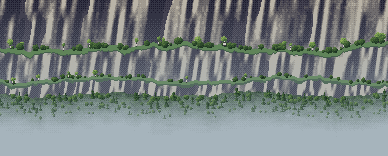
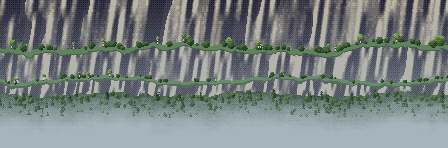
Åsen nedst: lia som fast lag, og dalen som stig fram som variant
Lia under stupet er no eit fast lag med pikselkunst (faktor 1) som heng
fast i terrenget i staden for å gli mot kartet. Lag kan ha ein variant;
varianten «dal» har ei kortare li og dalbotnen med Hovdebygda, som stig
fram nedanfrå raskare enn kartet når kameraet glir ned ved stupet.
Standard er «fast». skjerm.html har variant=dal.

diff --git a/js/rpg/data.js b/js/rpg/data.js
@@ -360,7 +360,7 @@ window.RPGData = (function () {
       // Kartet er smalare enn skjermen og står midt på (ox = 2), derfor ved: [-2, 1].
       luftfarge: "#a6b4bc",
       parallakse: [
-        { bilete: "li", faktor: 0.5, ved: [-2, 1], x: -20, y: 128 },
+        { bilete: "li", faktor: 1, ved: [-2, 1], x: -20, y: 128 },
       ],
       rader: [
         "################",
@@ -389,7 +389,7 @@ window.RPGData = (function () {
          utmarka og setra til venstre, og nærast trekronene i lia under kanten, som glir fort og
          søkk bak kanten. Kameraet kan sjå seks rader over kartet (kameraOpp). Nedst: når Ivar går mot
          stupet, glir kameraet 3 rader ned (kameraNed), så han står øvst på skjermen og lia som
-         stuper ned med berghyller, kratt og skog, og dalen langt nede i dis, syner under (li).
+         stuper ned med berghyller, kratt og skog syner under, som eit fast lag (li, faktor 1).
          ved er øvre venstre flis til kameraet når laget står på x, y. */
       luftfarge: "#a6b4bc",
       parallakse: [
@@ -397,8 +397,13 @@ window.RPGData = (function () {
         { bilete: "fjell", faktor: 0.1, ved: [0, -6], x: 0, y: 6, opp: true },
         { bilete: "dal-nord", faktor: 0.3, ved: [0, -6], x: 0, y: 36, opp: true },
         { bilete: "naer", faktor: 0.6, ved: [0, -6], x: 0, y: 66, opp: true },
-        { bilete: "li", faktor: 0.5, ved: [0, 12], x: 0, y: 48 },
+        // Nedst under stupet, variant «fast» (standard): lia som eit fast lag som følgjer kartet.
+        // Variant «dal»: lia sluttar i ei tregrense, og dalen stig fram nedanfrå (raskare enn kartet).
+        { bilete: "dal-under", faktor: [1, 1.8], ved: [0, 10.5], x: 0, y: 150, variant: "dal" },
+        { bilete: "li", faktor: 1, ved: [0, 12], x: 0, y: 48, variant: "fast" },
+        { bilete: "li-kort", faktor: 1, ved: [0, 12], x: 0, y: 48, variant: "dal" },
       ],
+      variant: "fast",                                                 // utsikta nedst: «fast» eller «dal» (sjå parallakse)
       kameraOpp: { fra: 12, til: 0, rader: 6 },                        // øvst ser kameraet opptil seks rader over kanten
       kameraNed: { fra: 11, til: 13, rader: 3 },                       // ved stupet glir kameraet ned, så Ivar står øvst
       // Forgrunnen: bjørkegreiner i øvre hjørne ved skogen, høgt gras i nedre hjørne ved stupet.

diff --git a/tools/sjekk-spel.js b/tools/sjekk-spel.js
@@ -117,9 +117,11 @@ for (const [id, k] of Object.entries(D.KART)) if (k.stemning && !(D.STEMNINGAR |
       const stad = `${id} ${namn}[${i}]`, f = stiP.join(__dirname, "..", "bilete", "spel", "parallakse", l.bilete + ".png");
       if (!fsP.existsSync(f)) { feil.push(`${stad}: bilete/spel/parallakse/${l.bilete}.png finst ikkje (køyr tools/pikselkunst/utsikt.py)`); return; }
       const fk = Array.isArray(l.faktor) ? l.faktor : [l.faktor, l.faktor];
-      if (!fk.every(v => typeof v === "number" && (namn === "parallakse" ? v >= 0 && v < 1 : v > 1))) feil.push(`${stad}: faktor ${l.faktor} (bak kartet 0 til 1, i forgrunnen over 1)`);
+      if (!fk.every(v => typeof v === "number" && (namn === "parallakse" ? v >= 0 && v <= 2 : v > 1))) feil.push(`${stad}: faktor ${l.faktor} (bak kartet 0 til 2, 1 er fast, i forgrunnen over 1)`);
+      if (l.variant && !(liste || []).some(m => m !== l && m.variant === (k.variant || "fast")) && l.variant !== (k.variant || "fast")) feil.push(`${stad}: varianten ${l.variant}, men kartet har ingen lag i varianten ${k.variant || "fast"}`);
       if (!Number.isFinite(l.x) || !Number.isFinite(l.y) || (l.ved && !(Array.isArray(l.ved) && l.ved.length === 2))) feil.push(`${stad}: treng x, y og ved: [kx, ky]`);
-      if (namn !== "parallakse" || l.opp || (liste.findIndex(m => !m.opp) !== i)) return;   // det bakaste laget under kartet
+      const iBruk = m => !m.opp && (!m.variant || m.variant === (k.variant || "fast"));   // laga under kartet i varianten kartet brukar
+      if (namn !== "parallakse" || !iBruk(l) || liste.findIndex(iBruk) !== i) return;   // det bakaste laget under kartet
       // Det bakaste laget: dekkjer det skjermen frå toppen av stupet og ned, der lufta kan syne?
       const { w: bw, h: bh } = pngStorleik(f), ved = l.ved || [0, 0];
       let luftRad = R.findIndex((r, y) => y > 0 && r.includes("-") && [...r].some((ch, x) => ch === "-" && "M-".includes(c(x, y - 1)) && !R.slice(0, y).every(rr => rr[x] === "-")));   // lufta nedst, ikkje den øvst

diff --git a/js/rpg/motor.js b/js/rpg/motor.js
@@ -677,6 +677,8 @@ window.Motor = (function () {
      skjermen (i pikslar) når kameraet står med øvre venstre flis på ved. faktor er eit tal eller
      [fx, fy]. Kameraet står på heile pikslar, og laget blir runda til heile pikslar for seg:
      posisjonen er ein monoton funksjon av kameraet, så ingenting ristar fram og attende.
+     Eit lag med faktor 1 står fast i terrenget (lia under stupet på Åsen). Eit lag med variant: "namn"
+     blir berre teikna når kartet har variant: "namn" (standard «fast»), så ein kan prøve ulike utsikter.
      Bakgrunnen syner gjennom luftfliser («-»: ikkje gangbare, ingen bakke) og der stupet («M»)
      løyser seg opp i dis nedst. luftfarge fyller skjermen under laga. */
   const LUFT = "-";
@@ -687,6 +689,7 @@ window.Motor = (function () {
   }
   function teiknLag(lag, camX, camY, forgrunn) {
     for (const l of lag || []) {
+      if (l.variant && l.variant !== (kart.def.variant || "fast")) continue;   // berre laga i varianten kartet har valt
       const img = parallaksebilete(l.bilete);
       if (!Pikslar.klar(img)) continue;
       const [x, y] = lagPos(l, camX, camY);

diff --git a/tools/pikselkunst/skjerm.html b/tools/pikselkunst/skjerm.html
@@ -33,6 +33,8 @@ f.onload = async () => {
   // flagg=skiftebrev,stabburnokkel set flagg før kartet blir lasta (til dømes skrinet etter far i stova).
   for (const fl of (q.get("flagg") || "").split(",").filter(Boolean)) w.RPGTest.st().flagg[fl] = true;
   // stemning=ingen (eller eit anna namn) byter lyset på kartet, til dømes for å sjå fargane utan kveldslys.
+  // variant=dal (eller eit anna namn) vel kva utsikt kartet har nedst (sjå variant i data.js).
+  if (q.get("variant")) w.RPGData.KART[q.get("kart") || "asen"].variant = q.get("variant");
   if (q.get("stemning")) w.RPGData.KART[q.get("kart") || "asen"].stemning = q.get("stemning") === "ingen" ? undefined : q.get("stemning");
   M.last(q.get("kart") || "asen", q.get("m") || "1"); await vent(400); await blaFram();
   if (q.get("x")) Object.assign(M.spelar, { x: +q.get("x"), y: +q.get("y"), fx: +q.get("x"), fy: +q.get("y"), dir: 0 });

diff --git a/tools/pikselkunst/utsikt.py b/tools/pikselkunst/utsikt.py
@@ -13,9 +13,11 @@ borte.
             til høgre Hovdebygda med teigar, gardar, Hovdekyrkja, elva og vegen.
   naer      trekronene i lia rett under kanten øvst (faktor 0,6): mørke granar og bjørker som
             stikk opp over graskanten og søkk bak han når kameraet går ned.
-  li        lia under stupet (faktor 0,5): bergveggen held fram med hyller med gras, kratt og
+  li        lia under stupet, eit fast lag (faktor 1): bergveggen held fram med hyller med gras, kratt og
             bjørk, ein ny bergvegg og bratt skog som blir mindre og disigare nedover og går
-            over i dis nedst (ingen flat dalbotn: han ville gli feil med parallaksen).
+            over i dis nedst. Standard nedst (variant «fast»).
+  li-kort, dal-under   varianten «dal»: lia sluttar i ei tregrense, og under stig dalbotnen med
+            Hovdebygda fram nedanfrå (faktor [1, 1,8]) når kameraet glir ned ved stupet.
   greiner, greiner-h   bjørkegreiner som heng ned i øvre hjørne (forgrunn, faktor 1,3)
   gras, gras-h         høgt gras og ein tuve i nedre hjørne, framfor utsikta (forgrunn, faktor 1,3)
 
@@ -169,7 +171,7 @@ def fjell():
 
 
 # ---------------------------------------------------------------- lia under stupet
-LI_W, LI_H = 388, 156
+LI_W, LI_H = 448, 148                # like breitt som kartet: laget står fast (faktor 1)
 BERG = ["#1c1a2c", "#2e2a3a", "#48434a", "#645e5e", "#827a74", "#a0978a", "#bdb4a4"]   # som BERG i pikslar.js
 
 
@@ -185,18 +187,21 @@ def berg(L_, x, y, skala, s, dis):
     L_.p(x, y, M.blend(BERG[v], DIS, math.floor(dis * 6 + M.terskel(x + 1, y)) / 6))
 
 
-def li():
-    """Lia som stuper ned under stupet: bergveggen held fram med to hyller med gras, kratt og bjørk,
-    ein ny, lågare bergvegg, så bratt skog som blir mindre og disigare nedover, og dalen langt nede i
-    dis nedst. Alt lenger nede er lenger borte: mindre former og meir dis (luftperspektiv)."""
+def li(kort=False):
+    """Lia som stuper ned under stupet, eit fast lag som følgjer kartet (faktor 1): bergveggen held
+    fram til den første hylla med gras, kratt og bjørk, ein ny, lågare bergvegg, så bratt skog som
+    blir mindre og disigare nedover og går over i dis. Alt lenger nede er lenger borte: mindre former
+    og meir dis (luftperspektiv). kort: skogen sluttar i ein ujamn tregrense med luft under, så
+    dalen (dal-under, varianten «dal») kan stige fram der."""
     L_ = L(LI_W, LI_H)
     gras = M.rampe("#2c4a30", "#3a5e36", "#4e7840", "#68904c", "#88a85a")
     kratt = M.rampe("#162a1e", "#203824", "#2e4a2c", "#3e5e34", "#56743e")
     h1 = lambda x: 46 + 4 * math.sin(x / 37) + (M.fbm(x / 14, 1, 401, 3) - 0.5) * 8      # første hylla, langt nede
     h2 = lambda x: 78 + 3 * math.sin(x / 29 + 1) + (M.fbm(x / 11, 2, 402, 3) - 0.5) * 6  # andre hylla
     skog = lambda x: 94 + 2 * math.sin(x / 23) + (M.fbm(x / 8, 3, 403, 3) - 0.5) * 6      # skogen i lia
-    dal = lambda x: 999                                                                 # ingen dalbotn: skogen går over i dis
+    dal = lambda x: sk_kant(x) if kort else 999                                         # kort: tregrensa nedst
     hylle = lambda x, k: 4 + int(M.fbm(x / 9, k, 404, 2) * 4)
+    sk_kant = lambda x: skog(x) + 8 + (M.fbm(x / 4, 6, 406, 3) - 0.5) * 8
     for x in range(LI_W):
         a, b, sk, dl = h1(x), h2(x), skog(x), dal(x)
         for y in range(LI_H):
@@ -213,16 +218,8 @@ def li():
                 # Skogen blir disigare nedover og går over i disen nedst (ingen flat dalbotn som
                 # ville gli feil med parallaksen).
                 v = 0.42 + (M.fbm(x / 2.2, y / 1.8, 441, 2) - 0.5) * 1.0 - (y - sk) / 120
-                t = 0.3 + (y - sk) / 52 + (M.fbm(x / 18, y / 6, 442, 3) - 0.5) * 0.3
+                t = 0.3 + (y - sk) / (110 if kort else 52) + (M.fbm(x / 18, y / 6, 442, 3) - 0.5) * 0.3
                 L_.p(x, y, M.blend(M.tone(kratt, v, x, y), DIS, min(1, math.floor(t * 6 + M.terskel(x, y)) / 6)))
-            else:                                                                       # dalen langt nede
-                eng = M.rampe("#5e8a50", "#6e9a58", "#80a862", "#9ab874")
-                v = 0.5 + (M.fbm(x / 20, y / 3, 451, 3) - 0.5) * 0.9
-                if M.h(int(x // 18), int(y // 3), 452) > 0.7: v += 0.35                 # teigar
-                c = M.tone(eng, v, x, y)
-                ey = dl + 14 + 3 * math.sin(x / 33)
-                if abs(y - ey) < 1: c = "#a4c0c8"                                       # elva
-                L_.p(x, y, M.blend(c, DIS, min(0.9, 0.42 + (y - dl) / 90)))
     # Kratt, einer og bjørk på hyllene: mørke klumpar med lys topp mot venstre, ei kvit stamme.
     for i in range(150):
         x = M.h(i, 1, 461) * LI_W
@@ -250,7 +247,120 @@ def li():
     for x in range(LI_W):
         sk_ = skog(x)
         for y in range(int(sk_) + 4, LI_H):
-            if L_.get(x, y): L_.dis(x, y, min(0.9, math.floor(((y - sk_) / 48) * 6 + M.terskel(x, y)) / 6))
+            if y > dal(x): L_.tom(x, y); continue
+            if L_.get(x, y): L_.dis(x, y, min(0.9, math.floor(((y - sk_) / (100 if kort else 48)) * 6 + M.terskel(x, y)) / 6))
+    return L_.im
+
+
+def li_kort(): return li(kort=True)
+
+
+# ---------------------------------------------------------------- dalen under lia (varianten «dal»)
+DU_W, DU_H = 448, 100
+
+def du_kant(x): return 999
+def du_elv(x): return 50 + 4 * math.sin(x / 41 + 0.6) + 2 * math.sin(x / 15 + 2)
+def du_veg(x): return 33 + 2.5 * math.sin(x / 57 + 1.3) + 1.2 * math.sin(x / 19)
+
+
+def dal_under():
+    """Variant «dal» nedst: dalbotnen med Hovdebygda langt nede, sett ovanfrå (kyrkja, gardane,
+    teigar, elva og vegen), i dis øvst der han kjem fram under skogkanten. Laget glir raskare enn
+    kartet (faktor over 1), så dalen stig fram nedanfrå når kameraet glir ned ved stupet."""
+    L_ = L(DU_W, DU_H)
+    eng = M.rampe("#4e7a4a", "#5e8a50", "#6e9a58", "#80a862", "#94b670")
+    for y in range(DU_H):
+        for x in range(DU_W):
+            if y > du_kant(x): continue
+            v = 0.5 + (M.fbm(x / 26, y / 9, 211, 4) - 0.5) * 0.7 + (M.fbm(x / 3, y / 2, 212, 2) - 0.5) * 0.18
+            L_.p(x, y, M.tone(eng, v, x, y))
+    # Åkerteigar: skeive firkantar i grønt og gult, med steingard (grå prikkar) imellom.
+    teig = [M.rampe("#86aa5c", "#9cba6a"), M.rampe("#b4b066", "#c8c47a"), M.rampe("#6e9850", "#7ea85a"),
+            M.rampe("#a2b870", "#b4c680"), M.rampe("#9a8a5a", "#ae9e6c")]
+    for i in range(80):
+        cx = 20 + M.h(i, 1, 221) * 410; cy = 20 + M.h(i, 2, 221) * 38
+        if cy > du_kant(cx) - 6: continue
+        w = 10 + int(M.h(i, 3, 221) * 16); hh = 4 + int(M.h(i, 4, 221) * 5); sk = (M.h(i, 5, 221) - 0.5) * 0.5
+        r = teig[int(M.h(i, 6, 221) * len(teig))]
+        for yy in range(hh):
+            for xx in range(w):
+                X, Y = int(cx + xx + yy * sk * 2), int(cy + yy)
+                if abs(Y - du_elv(X)) < 3 or abs(Y - du_veg(X)) < 2: continue
+                if xx == 0 or yy == hh - 1:
+                    if M.h(X, Y, 222) > 0.4: L_.p(X, Y, "#8a8c7c")      # steingard
+                    continue
+                L_.p(X, Y, M.tone(r, 0.5 + (M.h(X // 2, Y, 223) - 0.5) * 0.6 + (0.3 if yy % 2 else 0), X, Y))
+    # Vegen langs dalen, lys grus med mørk kant.
+    for x in range(DU_W):
+        y = du_veg(x); yi = int(round(y))
+        if yi > du_kant(x) - 2: continue
+        L_.p(x, yi, "#cabc8e"); L_.p(x, yi + 1, "#a89a72")
+        if M.h(x, 0, 231) > 0.7: L_.p(x, yi - 1, "#b0a47c")
+    # Elva: buktar seg gjennom dalen, mørk kant mot land, lyse band i straumen.
+    vass = M.rampe("#4c6a74", "#62828c", "#7c9ca6", "#a4c0c8", "#c8dce0")
+    for x in range(DU_W):
+        yc = du_elv(x); b = 1.8 + 0.6 * math.sin(x / 23)
+        for y in range(int(yc - b) - 1, int(yc + b) + 2):
+            if y > du_kant(x) - 1: continue
+            d = (y + 0.5 - yc) / b
+            if abs(d) > 1.25: continue
+            if abs(d) > 0.9: L_.p(x, y, "#3e5a5a" if d > 0 else "#5a7a64"); continue
+            v = 0.45 + (M.fbm(x / 6, y / 1.2, 241, 2) - 0.5) * 0.6 - d * 0.15
+            L_.p(x, y, M.tone(vass, v, x, y))
+    # Ei bru over elva der vegen går over.
+    for k in range(-3, 4):
+        x = 128; L_.p(x, int(du_elv(x)) + k, "#9a8a6a"); L_.p(x + 1, int(du_elv(x)) + k, "#7a6a50")
+    # Tre langs elva og i kantane av teigane (older og bjørk).
+    tre = M.rampe("#2e4a36", "#3e5e40", "#527448", "#6a8a52", "#86a060")
+    for i in range(130):
+        x = M.h(i, 1, 251) * DU_W
+        if i < 70: y = du_elv(x) + (-4 if M.h(i, 2, 251) < 0.5 else 4.5)
+        else: y = 20 + M.h(i, 3, 251) * 40
+        if y > du_kant(x) - 3 or abs(y - du_veg(x)) < 2: continue
+        krone(L_, x, y, 1.3 + M.h(i, 4, 251) * 1.2, tre, 252 + i)
+    # Gardane: stove med torvtak, løe, eit stabbur, og tunet rundt (lys grus).
+    torv = ("#4e5a30", "#6a7838", "#8a9648")
+    gardar = [(52, 24), (92, 22), (150, 25), (176, 42), (246, 24), (274, 42), (318, 28), (112, 42), (226, 46), (340, 40), (26, 38), (384, 26), (420, 44)]
+    for i, (gx, gy) in enumerate(gardar):
+        if gy > du_kant(gx) - 8: continue
+        for yy in range(-1, 7):
+            for xx in range(-2, 16):
+                if M.h(gx + xx, gy + yy, 261) > 0.25: L_.p(gx + xx, gy + yy, M.blend(L_.get(gx + xx, gy + yy) or (120, 150, 90), "#b8ae84", 0.45))
+        hus(L_, gx, gy, 6, torv, ("#5a3a2c", "#7a4e38"))
+        hus(L_, gx + 8, gy - 1, 7, torv, ("#6a5a48", "#8a7a62"), takh=3)
+        if i % 2 == 0: hus(L_, gx + 3, gy + 6, 3, torv, ("#5a3a2c", "#7a4e38"), takh=1, veggh=2)
+    # Hovdekyrkja på ein liten haug midt i dalen, med kyrkjegardsmur rundt.
+    kx, ky = 200, 27
+    for yy in range(-14, 10):
+        for xx in range(-8, 20):
+            X, Y = kx + xx, ky + yy
+            if (xx in (-8, 19) or yy in (-6, 9)) and -6 <= yy <= 9 and M.h(X, Y, 271) > 0.3: L_.p(X, Y, "#9a9c90")
+    kyrkje(L_, kx, ky)
+    # Skogen nedst i åsen vår, øvst i biletet: kroner som stig opp av disen ved foten av stupet.
+    skog = M.rampe("#283e34", "#344e3e", "#46644a", "#5c7c54", "#7a965e")
+    gran = M.rampe("#1e3230", "#28403a", "#345046", "#466452")
+    for i in range(120):
+        x = M.h(i, 1, 281) * (DU_W + 10) - 5; y = 3 + M.h(i, 2, 281) ** 0.8 * 15
+        if M.h(i, 3, 281) < 0.35:
+            M.gran(L_, int(x), y + 3, 5 + M.h(i, 4, 281) * 4, gran, fro=i)
+        else:
+            krone(L_, x, y, 2 + M.h(i, 5, 281) * 2.2, skog, 282 + i)
+    # Luftperspektiv: alt litt mot disen, mykje øvst (disen ved foten av stupet) og nedst.
+    for y in range(DU_H):
+        for x in range(DU_W):
+            if not L_.get(x, y): continue
+            t = 0.3
+            if y < 18: t += (18 - y) / 18 * 0.6
+            if y > 48: t += (y - 48) / 40 * 0.62                             # langt nede: meir dis
+            t = min(0.95, t)
+            steg = math.floor(t * 6 + M.terskel(x, y)) / 6               # i trinn, med dither
+            L_.dis(x, y, steg)
+    # Disen øvst: tett slør av skystriper, tynnar ut nedover.
+    for y in range(0, 11):
+        for x in range(DU_W):
+            d = M.fbm(x / 30 + y / 12, y / 3, 295, 3)
+            if d > 0.42 + y * 0.035 and M.terskel(x, y) < 0.9: L_.p(x, y, M.blend(DIS, "#ffffff", 0.18 if d > 0.6 else 0.08))
+            elif y < 3: L_.p(x, y, DIS)
     return L_.im
 
 
@@ -415,7 +525,7 @@ def gras():
     return L_.im
 
 
-BILETE = {"li": li, "himmel": himmel, "fjell": fjell, "dal-nord": dal_nord, "naer": naer, "greiner": greiner, "gras": gras}
+BILETE = {"li": li, "li-kort": li_kort, "dal-under": dal_under, "himmel": himmel, "fjell": fjell, "dal-nord": dal_nord, "naer": naer, "greiner": greiner, "gras": gras}
 
 if __name__ == "__main__":
     namn = sys.argv[1:] or list(BILETE)

diff --git a/js/rpg/README.md b/js/rpg/README.md
@@ -138,9 +138,10 @@ Lyset etterliknar Super Nintendo og Final Fantasy VI. Det meste av lyset er teik
 
 - **Fliser:** `s` er ein skrent (bakkekanten mellom to nivå, sett framanfrå: graskledd skråning med jord og bergnabbar, slagskugge på graset under). Han flatar ut der han møter open mark eller ei rampe. `/` er ei rampe: stien gjennom skrenten, med trinn (ein kan gå der). `M` er stupet: bergveggen nedst, som løyser seg opp i dis i den nedste rada. `-` er luft: ingen bakke, ikkje gangbar, og bakgrunnen syner gjennom. Under eit stup er det meir stup eller luft, og under luft er det luft (`sjekk-spel.js` sjekkar det). Teikninga er `Pikslar.skrent`, `Pikslar.underSkrent`, `Pikslar.rampe` og `Pikslar.stup`.
 - **Bakgrunnslag** (`parallakse` på kartet): `[{ bilete, faktor, ved: [kx, ky], x, y }, …]`, det fjernaste først. `bilete` er namnet på fila i `bilete/spel/parallakse/` (laga med `tools/pikselkunst/utsikt.py`). `x` og `y` er der øvre venstre hjørne står på skjermen (pikslar) når kameraet står med øvre venstre flis på `ved`, og laget flyttar seg `faktor` (eit tal eller `[fx, fy]`) så langt som kartet. Posisjonen blir runda til heile pikslar for seg, og han er ein monoton funksjon av kameraet (som òg står på heile pikslar og går i tikk), så ingenting ristar fram og attende. `luftfarge` fyller skjermen under laga. Laga blir berre teikna innanfor kartet.
+- **Fast lag og variantar:** eit lag med faktor 1 står fast i terrenget (lia under stupet på Åsen). Eit lag med `variant: "namn"` blir berre teikna når kartet har `variant: "namn"` (standard «fast»). Åsen har `variant: "fast"` (lia som fast lag); `variant: "dal"` gir ei kortare li (`li-kort`) og dalbotnen med Hovdebygda (`dal-under`, faktor `[1, 1.8]`), som stig fram nedanfrå raskare enn kartet når kameraet glir ned. Sjå den med `skjermbilete.py namn kart=asen m=1 x=12 y=13 variant=dal`.
 - **Forgrunn** (`forgrunn` på kartet): same format, med faktor over 1, teikna etter alt anna (før lyset). Bjørkegreiner i øvre hjørne når kameraet står øvst, høgt gras i nedre hjørne når det står nedst ved stupet. Dei går fort ut av biletet når kameraet flyttar seg.
 - **Utsikt for kameraet** (`kameraNed: { fra, til, rader }`): når målet for kameraet går frå rad `fra` ned til rad `til`, glir kameraet jamt lenger ned, til `rader` rader (standard `(til - fra) / 2`). Når `rader / (til - fra)` er eit halvt tal, går farten opp i heile pikslar (spelaren 2 pikslar per tikk, kameraet 3 eller 5). `kameraOpp: { fra, til, rader }` er det same oppover: over rad `fra` ser kameraet opp til `rader` rader over kartet, der det er luft. Kanten der bakken fell bort er rad 0 og alle `N`-fliser (som har luft over seg); `Pikslar.nordkant` bøyer kanten ned mot sida der det er luft. Laga for utsikta øvst har `opp: true`.
-- På Åsen: toppen er lengst oppe på midten, og kanten fell eit steg ned mot sidene. Øvst ser ein ut som i Narshe, i fire lag med kvar sin fart: himmelen (`himmel`, faktor 0,04), fjella (`fjell`, 0,1), lia opp mot utmarka med setra til venstre og Hovdebygda med kyrkja til høgre (`dal-nord`, 0,3), og nærast trekronene i lia under kanten (`naer`, 0,6), som glir fort og søkk bak kanten når kameraet går ned. Kameraet kan sjå seks rader over kartet. Nedst glir kameraet 3 rader ned dei to siste radene mot stupet, så Ivar står øvst på skjermen, og under stupet stuper lia vidare (`li`, 0,5): ein høg bergvegg før den første hylla, berghyller med gras, kratt og bjørk, ein ny bergvegg og bratt skog som går over i dis (ingen flat dalbotn, som glei feil med parallaksen). Minnet om far (`minne-far`) har same lia under stupet.
+- På Åsen: toppen er lengst oppe på midten, og kanten fell eit steg ned mot sidene. Øvst ser ein ut som i Narshe, i fire lag med kvar sin fart: himmelen (`himmel`, faktor 0,04), fjella (`fjell`, 0,1), lia opp mot utmarka med setra til venstre og Hovdebygda med kyrkja til høgre (`dal-nord`, 0,3), og nærast trekronene i lia under kanten (`naer`, 0,6), som glir fort og søkk bak kanten når kameraet går ned. Kameraet kan sjå seks rader over kartet. Nedst glir kameraet 3 rader ned dei to siste radene mot stupet, så Ivar står øvst på skjermen, og under stupet stuper lia vidare som eit fast lag som følgjer kartet (`li`, faktor 1): ein høg bergvegg før den første hylla, berghyller med gras, kratt og bjørk, ein ny bergvegg og bratt skog som går over i dis (ingen flat dalbotn, som glei feil med parallaksen). Minnet om far (`minne-far`) har same lia under stupet.
 
 ### Posar
 Figurane kan knele, sitje, peike, liggje og sove i ei scene (`D.POSAR`). Posen varer til figuren går, eller til hendinga er slutt, og han går framfor kjensla.

diff --git a/tools/pikselkunst/ARBEIDSLOGG.md b/tools/pikselkunst/ARBEIDSLOGG.md
@@ -1071,3 +1071,24 @@ same måte, uansett kven som tek over.
   bak dei ligg den disige lia og bygda, fjella og himmelen, og laga glir med ulik fart. Nedst er
   stupet høgt før den første hylla, og lia går over i dis.
 - **Står att:** Disen nedst i lia er ei jamn, lys flate.
+
+## Runde 32: lia under stupet som fast lag, og dalen som stig fram (variant)
+
+- **Oppdrag:** Brukaren: parallaksen nedst på Åsen fungerer dårleg; heller eit fast lag med
+  pikselkunst, eller prøve å la dalen scrolle inn frå den andre sida.
+- **Gjort:**
+  - `li` er no eit fast lag (faktor 1, 448 pikslar breitt som kartet): bergveggen, hyllene og skogen
+    som går over i dis heng fast i terrenget og glir ikkje mot kartet. `kameraNed` er som før.
+  - Variantar: eit lag kan ha `variant: "namn"` og blir berre teikna når kartet har same `variant`
+    (standard «fast»). Varianten «dal» har `li-kort` (lia sluttar under den andre hylla) og `dal-under`
+    (dalbotnen med Hovdekyrkja og gardane frå runde 26, 448 breitt) med faktor `[1, 1.8]`: han står fast
+    sidelengs, men stig fram nedanfrå, raskare enn kartet, når kameraet glir ned ved stupet.
+    `skjerm.html` har `variant=dal`. `sjekk-spel.js` godtek faktor opp til 2 bak kartet og sjekkar
+    dekninga for laga i varianten kartet brukar.
+  - Minnet om far har lia som fast lag.
+  - Standard er «fast»: biletet står stødig og heng saman med stupet, utan noko som glir feil. Dalen
+    i «dal» syner berre i ei smal stripe nedst (20 til 50 pikslar) og stig fort, så det ser ut som ho
+    kjem mot ein.
+- **Vurdert:** Seriar medan kameraet glir ned (Ivar på rad 10 til 13 og på neset):
+  `forhand/skjerm/r32-serie-fast.png` og `r32-serie-dal.png`.
+- **Står att:** Ein lengre dal-variant ville krevje fleire rader med luft under kartet.

diff --git a/.claude/skills/pikselkunst/SKILL.md b/.claude/skills/pikselkunst/SKILL.md
@@ -170,8 +170,8 @@ Kjelda er alltid ei `.pix`-fil i `tools/pikselkunst/kjelder/` (formatet står
     øvst der bakken fell bort (`Pikslar.nordkant`, i rad 0 eller under luft på kart med `kameraOpp`;
     kanten bøyer ned mot sida der det er luft, så toppen kan vere høgast på midten).
   - Bakgrunnslaga og forgrunnen: `python tools/pikselkunst/utsikt.py` (skriptet er kjelda) skriv
-    `bilete/spel/parallakse/<namn>.png` (himmel, fjell, dal-nord og naer øvst, li under stupet,
-    greiner, gras) og
+    `bilete/spel/parallakse/<namn>.png` (himmel, fjell, dal-nord og naer øvst, li under stupet som fast
+    lag med faktor 1, li-kort og dal-under for varianten «dal», greiner, gras) og
     `forhand/utsikt-ark.png`. På
     kartet: `parallakse: [{ bilete, faktor, ved: [kx, ky], x, y }]` (det fjernaste først, faktor under 1),
     `forgrunn: [...]` (faktor over 1), `luftfarge`, `kameraNed: { fra, til, rader }` (kameraet
@@ -181,7 +181,8 @@ Kjelda er alltid ei `.pix`-fil i `tools/pikselkunst/kjelder/` (formatet står
     bakgrunnen nivå 5 (`fjern` i stemninga, ingen skyskugge).
   - Sjå med `skjermbilete.py namn kart=asen m=1 x=12 y=13` (ved stupet), `x=22 y=14` (neset),
     `x=3 y=2`, `x=10 y=2` og `x=24 y=2` (toppen: utmarka til venstre, Hovdebygda til høgre), og
-    `kart=minne-far m=1` (same lia under stupet i minnet).
+    `kart=minne-far m=1` (same lia under stupet i minnet). `variant=dal` viser varianten der dalen
+    stig fram under lia (lag med `variant` blir berre teikna når kartet har den varianten).
 - Tre, steinar og haugar: `python tools/pikselkunst/natur.py <namn>` (sjå `NATUR`).
   Kartteikna `#` (gran), `t` (bjørk) og `o` (stein, einer) vel variant etter plassen
   frå `NATURTYPE` i `js/rpg/pikslar.js`. Nye variantar må førast inn der.

diff --git a/tools/pikselkunst/STILGUIDE.md b/tools/pikselkunst/STILGUIDE.md
@@ -250,7 +250,8 @@ landskap langt nede som flyttar seg saktare enn kartet.
   venstre (skog nedst, fjellbeite med stein, ein bekk og setra langt oppe) og Hovdebygda til høgre, med
   ein skogkledd rygg på skrå mellom dei. Kanten er graset som sluttar i ei ujamn, lys line med strå mot
   himmelen; lia bak syner ikkje.
-- Under stupet nedst: lia stuper vidare (`li`, faktor 0,5): berget held fram (same knausar og renner)
+- Under stupet nedst: lia stuper vidare som eit fast lag som følgjer kartet (`li`, faktor 1), så klippene
+  heng fast i terrenget: berget held fram (same knausar og renner)
   eit godt stykke før den første hylla, så med lyst gras i kanten og kratt, einer og små bjørker, ein ny, mindre og disigare bergvegg,
   bratt skog med kroner som blir mindre nedover og går over i dis. Ingen flat dalbotn (han glei feil med
   parallaksen, sidan ei flate langt borte skulle gått mykje saktare enn lia), og ingen fjell der.
